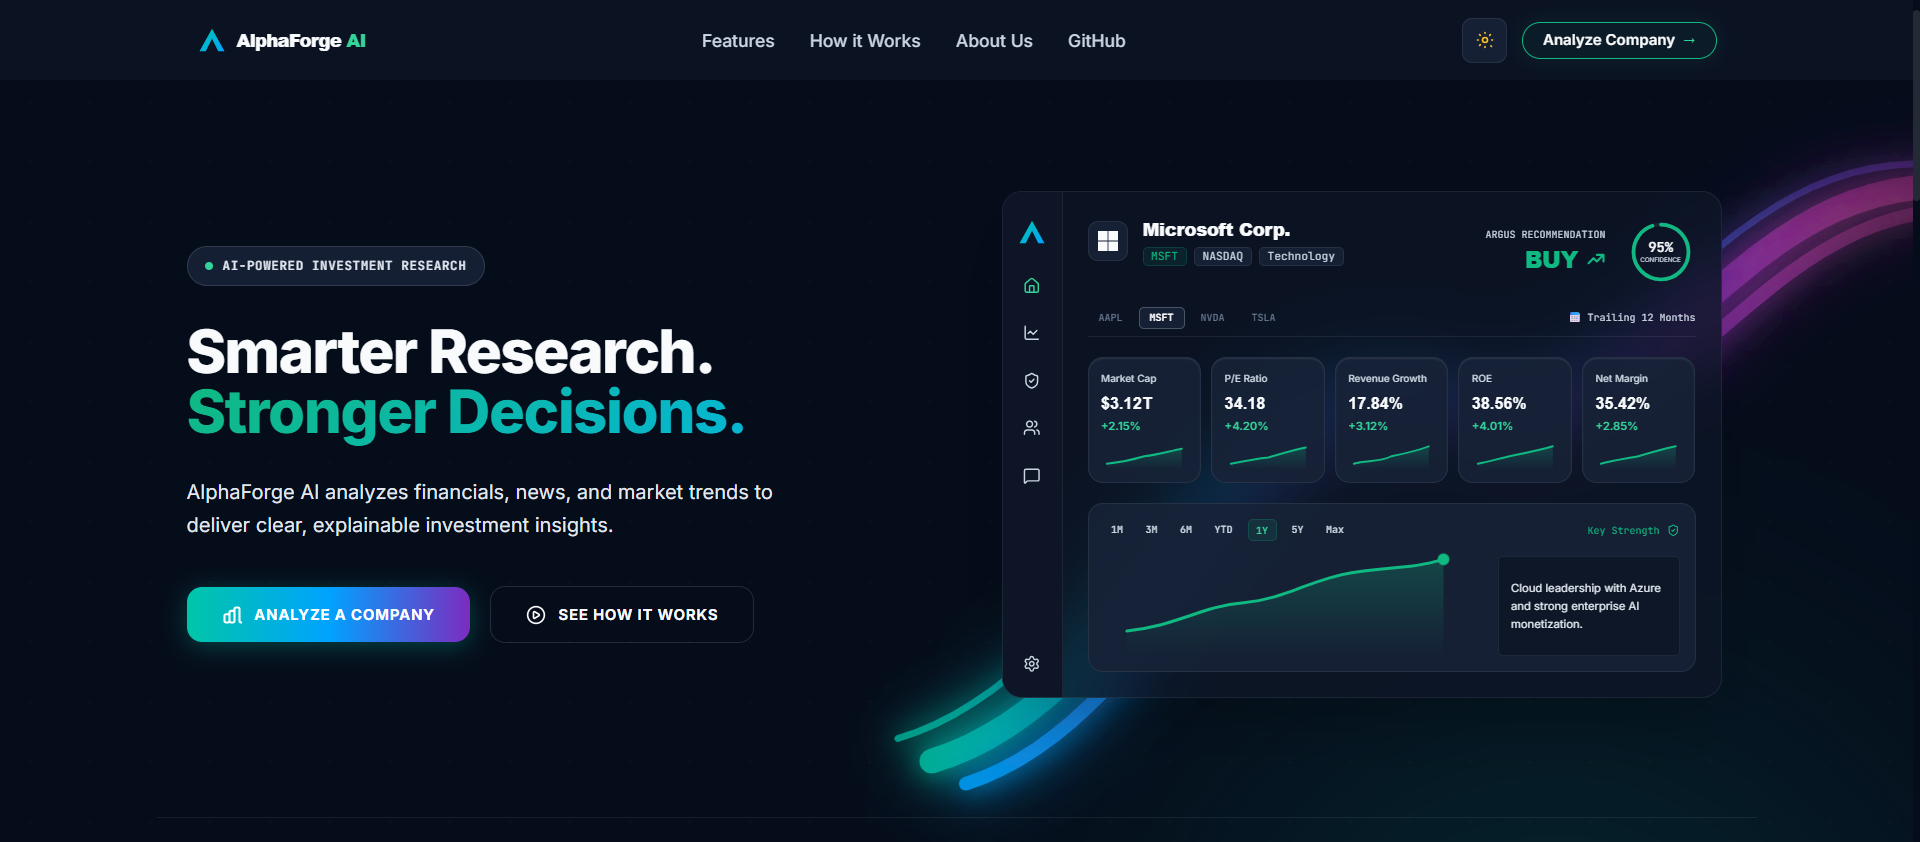
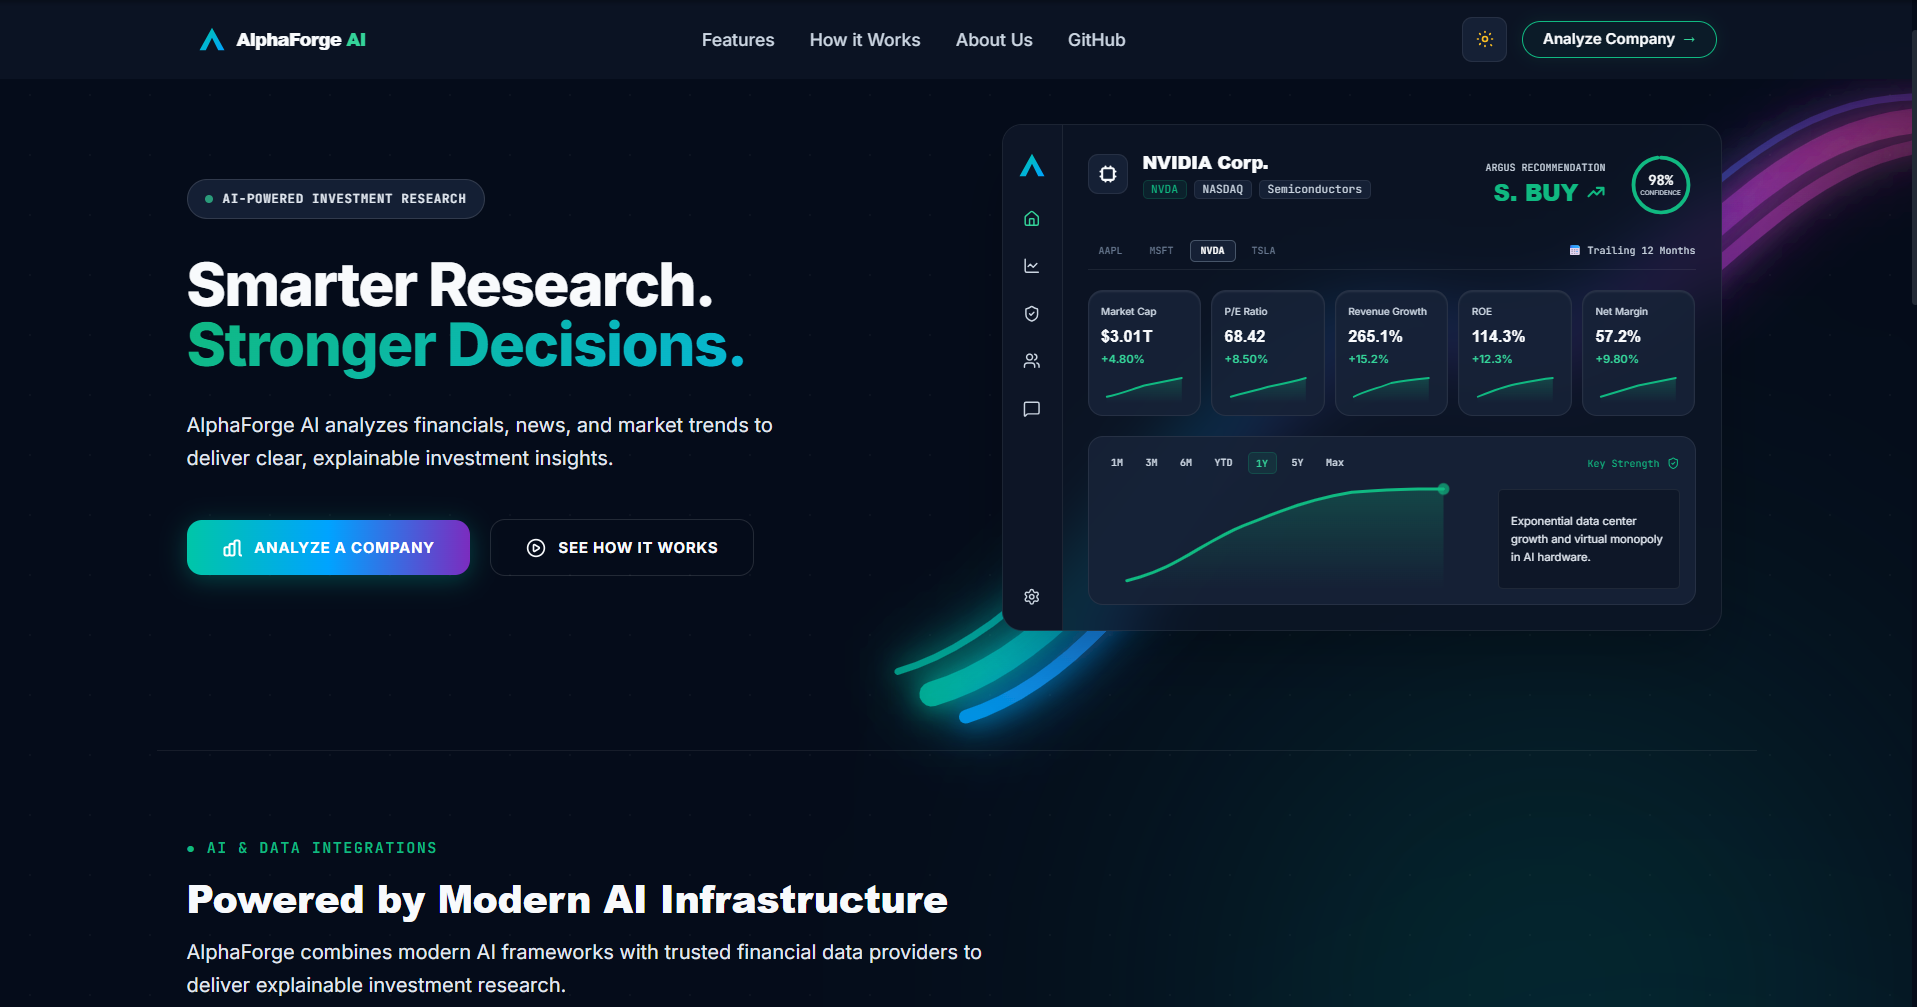
added docs and comments

diff --git a/README.md b/README.md
@@ -195,42 +195,42 @@ Every generated analysis report includes:
 *   **Recommendation**: BUY
 *   **Confidence**: 97%
 *   **Preview**:
-    ![Apple Mockup Preview](docs/screenshots/aapl-example.png)
+    ![Apple Mockup Preview](docs/screenshots/apple-investment-report.png)
 *   **Full Report**: [docs/example-runs/AAPL.md](file:///d:/Projects/AlphaForge%20AI/AlphaForge-AI/docs/example-runs/AAPL.md)
 
 ### Microsoft Corp. (MSFT)
 *   **Recommendation**: HOLD
 *   **Confidence**: 91%
 *   **Preview**:
-    ![Microsoft Mockup Preview](docs/screenshots/msft-example.png)
+    ![Microsoft Mockup Preview](docs/screenshots/apple-investment-report.png)
 *   **Full Report**: [docs/example-runs/MSFT.md](file:///d:/Projects/AlphaForge%20AI/AlphaForge-AI/docs/example-runs/MSFT.md)
 
 ### NVIDIA Corp. (NVDA)
 *   **Recommendation**: BUY
 *   **Confidence**: 93%
 *   **Preview**:
-    ![NVIDIA Mockup Preview](docs/screenshots/nvda-example.png)
+    ![NVIDIA Mockup Preview](docs/screenshots/nvidia-investment-report.png)
 *   **Full Report**: [docs/example-runs/NVDA.md](file:///d:/Projects/AlphaForge%20AI/AlphaForge-AI/docs/example-runs/NVDA.md)
 
 ### Tata Consultancy Services (TCS)
 *   **Recommendation**: BUY
 *   **Confidence**: 89%
 *   **Preview**:
-    ![TCS Mockup Preview](docs/screenshots/tcs-example.png)
+    ![TCS Mockup Preview](docs/screenshots/tcs-investment-report.png)
 *   **Full Report**: [docs/example-runs/TCS.md](file:///d:/Projects/AlphaForge%20AI/AlphaForge-AI/docs/example-runs/TCS.md)
 
 ### Paytm (PAYTM)
 *   **Recommendation**: PASS
 *   **Confidence**: 74%
 *   **Preview**:
-    ![Paytm Mockup Preview](docs/screenshots/paytm-example.png)
+    ![Paytm Mockup Preview](docs/screenshots/paytm-investment-report.png)
 *   **Full Report**: [docs/example-runs/PAYTM.md](file:///d:/Projects/AlphaForge%20AI/AlphaForge-AI/docs/example-runs/PAYTM.md)
 
 ### Sonata Software (SONATACO)
 *   **Recommendation**: HOLD
 *   **Confidence**: 82%
 *   **Preview**:
-    ![Sonata Mockup Preview](docs/screenshots/sonata-example.png)
+    ![Sonata Mockup Preview](docs/screenshots/sonata-investment-report.png)
 *   **Full Report**: [docs/example-runs/SONATA.md](file:///d:/Projects/AlphaForge%20AI/AlphaForge-AI/docs/example-runs/SONATA.md)
 
 ---
@@ -243,9 +243,13 @@ The following screenshots illustrate the interface, layout architecture, and rea
 ![Landing Page](docs/screenshots/landing-page.png)
 *Displays the dark-mode layout of the terminal workspace, including the dynamic company preview card carousel.*
 
-## Dashboard Overview
-![Dashboard Overview](docs/screenshots/dashboard-overview.png)
-*Shows the asymmetric cockpit dashboard displaying the company profile summary, recommendation panel, and financial pillars.*
+## Apple Investment Report
+![Apple Investment Report](docs/screenshots/apple-investment-report.png)
+*Shows the asymmetric cockpit dashboard displaying the company profile summary, recommendation panel, and financial pillars for Apple.*
+
+## Nvidia Investment Report
+![Nvidia Investment Report](docs/screenshots/nvidia-investment-report.png)
+*Shows the full quantitative analysis and dashboard report generated for NVIDIA.*
 
 ## Investment Recommendation Centerpiece
 ![Investment Centerpiece](docs/screenshots/investment-recommendation.png)
